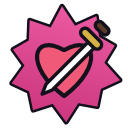
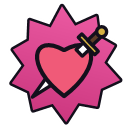
Bugfix

Changed region(s): [[0.2188, 0.1562, 0.875, 0.7812]]

diff --git a/LoverRevenger.cs b/LoverRevenger.cs
@@ -446,6 +446,10 @@ namespace UsefulTORStuff {
                 if (lover == PlayerControl.LocalPlayer) {
                     PostChat(lover, Pick(mode == ModeBlindRage ? AwakenRage : AwakenTargeted));
                     UTSAssets.PlayRevenger(); // dark awakening sting, Revenger-only
+                    // A non-killer Revenger awakens NOW (mid-game). Guarantee the kill button exists at
+                    // this exact moment - the HudManager.Start creation can be long gone by here, which is
+                    // what left non-killers with no button. Killers use their own kill button (no second).
+                    if (!IsKiller(lover)) EnsureRevengerButton(HudManager.Instance);
                 }
             } else if (!lover.Data.IsDead) {
                 // Roll failed: the delayed Lover suicide happens now (every client kills locally).
@@ -765,27 +769,36 @@ namespace UsefulTORStuff {
             }
         }
 
+        // Create the Revenger kill button if it does not currently exist (or its backing ActionButton was
+        // torn down, e.g. across a HUD rebuild). Idempotent - a live button is left untouched. Called from
+        // BOTH HudManager.Start AND the moment a local non-killer player actually awakens as the Revenger
+        // (ApplyDecision). The awaken happens MID-GAME, long after HudManager.Start, so relying on the Start
+        // creation alone left the button missing whenever that early instance was gone by awaken time -
+        // which is exactly the "button never appeared" bug. Recreating at awaken guarantees it exists then.
+        private static void EnsureRevengerButton(HudManager hud) {
+            try {
+                if (hud == null || hud.KillButton == null) return;
+                if (revengerButton != null && revengerButton.actionButton != null) return;
+                revengerButton = new CustomButton(
+                    OnRevengerKill,
+                    LocalUsesRevengerButton,
+                    () => currentTarget != null && PlayerControl.LocalPlayer != null && PlayerControl.LocalPlayer.CanMove,
+                    () => { if (revengerButton != null) revengerButton.Timer = revengerButton.MaxTimer; },
+                    UTSAssets.RevengerIcon ?? hud.KillButton.graphic.sprite,
+                    CustomButton.ButtonPositions.upperRowRight,
+                    hud,
+                    KeyCode.Q
+                );
+                revengerButton.MaxTimer = RevengerCooldown != null ? RevengerCooldown.getFloat() : 30f;
+                revengerButton.Timer = revengerButton.MaxTimer;
+            } catch (Exception e) {
+                UsefulTORStuffPlugin.Logger?.LogError($"[LoverRevenger] button creation failed: {e}");
+            }
+        }
+
         [HarmonyPatch(typeof(HudManager), nameof(HudManager.Start))]
         static class HudStartButtonPatch {
-            public static void Postfix(HudManager __instance) {
-                try {
-                    if (revengerButton != null && revengerButton.actionButton != null) return;
-                    revengerButton = new CustomButton(
-                        OnRevengerKill,
-                        LocalUsesRevengerButton,
-                        () => currentTarget != null && PlayerControl.LocalPlayer != null && PlayerControl.LocalPlayer.CanMove,
-                        () => { if (revengerButton != null) revengerButton.Timer = revengerButton.MaxTimer; },
-                        UTSAssets.RevengerIcon ?? __instance.KillButton.graphic.sprite,
-                        CustomButton.ButtonPositions.upperRowRight,
-                        __instance,
-                        KeyCode.Q
-                    );
-                    revengerButton.MaxTimer = RevengerCooldown != null ? RevengerCooldown.getFloat() : 30f;
-                    revengerButton.Timer = revengerButton.MaxTimer;
-                } catch (Exception e) {
-                    UsefulTORStuffPlugin.Logger?.LogError($"[LoverRevenger] button creation failed: {e}");
-                }
-            }
+            public static void Postfix(HudManager __instance) => EnsureRevengerButton(__instance);
         }
 
         private static void OnRevengerKill() {
